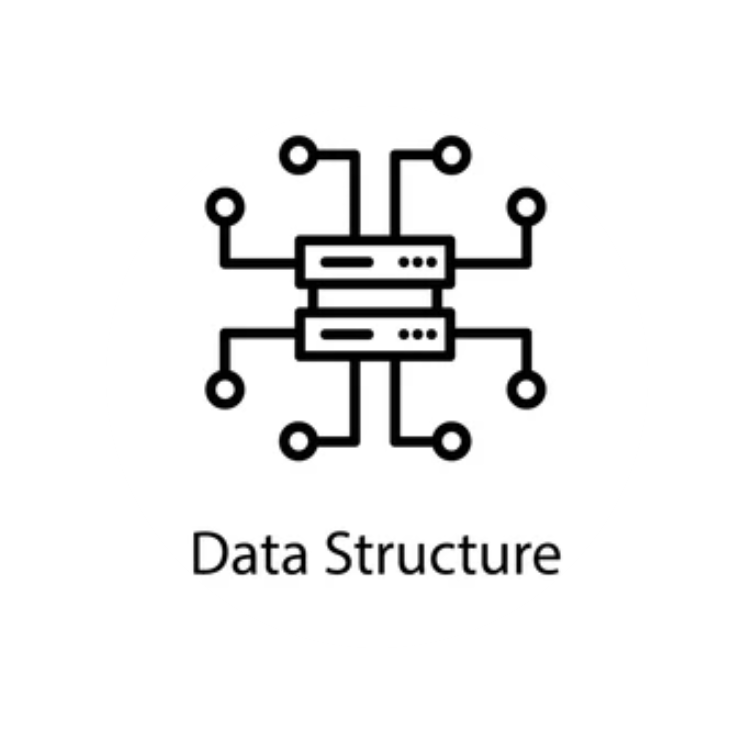
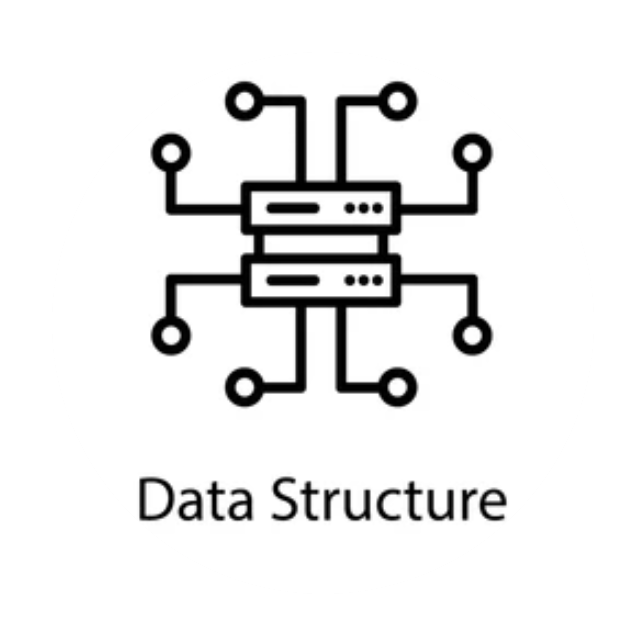
08/06/2024

Changed region(s): [[0.2174, 0.1242, 0.7764, 0.6522], [0.2174, 0.6832, 0.8075, 0.8075]]

diff --git a/src/components/Skills/skills.jsx b/src/components/Skills/skills.jsx
@@ -81,7 +81,7 @@ const cards = [
         id: 4,
         content: <WebDevCertificate />,
         className: "col-span-1",
-        thumbnail: <div className="h-20 lg:h-60 flex justify-evenly items-center  backdrop-blur-[1.5px] rounded-xl lg:rounded-3xl border-1 lg:border-2 border-[#e0e0e0] dark:border-[#202020] hover:cursor-pointer"><div><Image className="h-full w-44 lg:w-[500px] hidden dark:block" src={dsa} /><Image className="h-full w-44 lg:w-[500px] dark:hidden" src={dsaL} /></div></div>
+        thumbnail: <div className="h-20 lg:h-60 flex justify-evenly items-center  backdrop-blur-[1.5px] rounded-xl lg:rounded-3xl border-1 lg:border-2 border-[#e0e0e0] dark:border-[#202020] hover:cursor-pointer"><div><Image className="h-full w-16 lg:w-56 hidden dark:block" src={dsa} /><Image className="h-full w-16 lg:w-56 dark:hidden" src={dsaL} /></div></div>
     },
     {
         id: 5,
